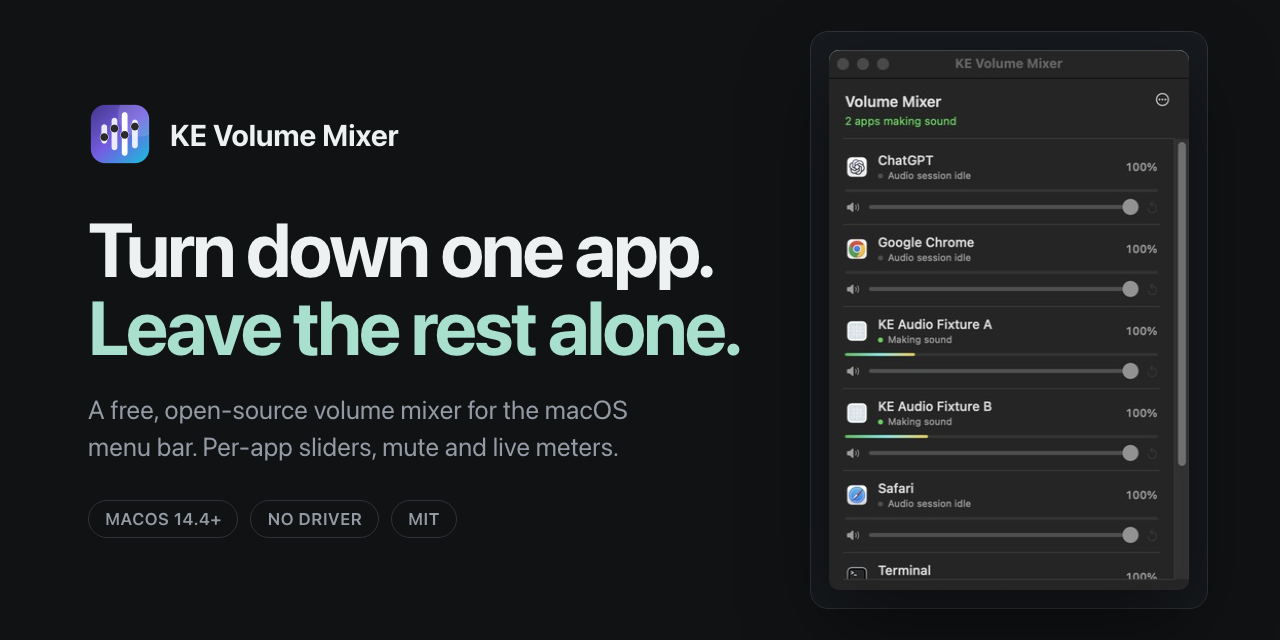
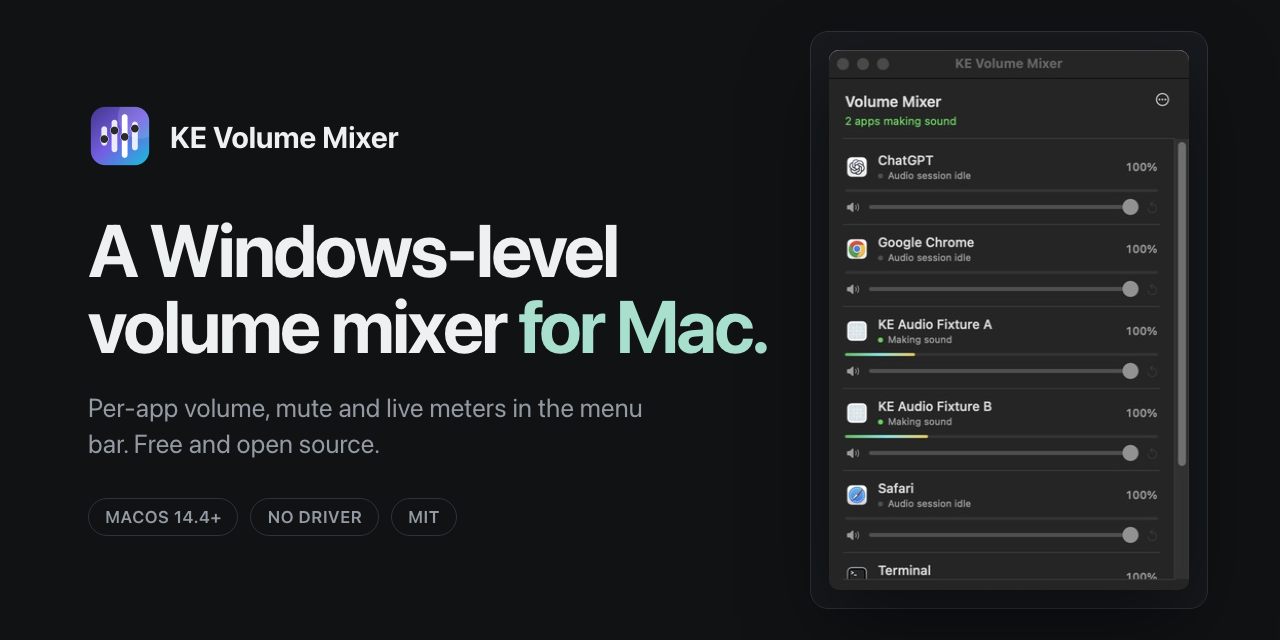
Tagline: a Windows-level volume mixer for Mac

diff --git a/README.md b/README.md
@@ -2,8 +2,8 @@
 
 <h1 align="center">KE Volume Mixer</h1>
 
-<p align="center">Turn down one app. Leave the rest alone.<br>
-A free, open-source per-app volume mixer for the macOS menu bar.</p>
+<p align="center"><b>A Windows-level volume mixer for Mac.</b><br>
+Per-app volume, mute and live meters in the menu bar. Free and open source.</p>
 
 <p align="center">
   <a href="https://github.com/willykeenan/volume-mixer/releases/latest"><b>Download for Mac</b></a> ·
